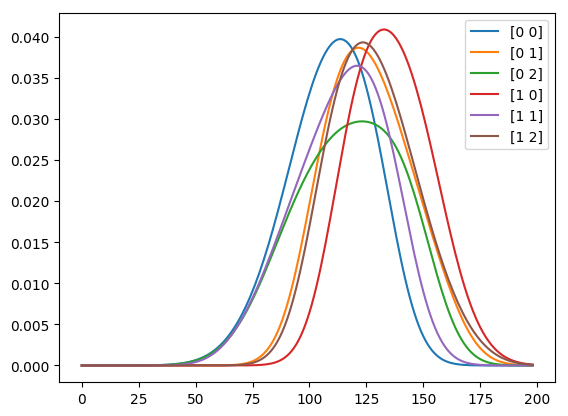
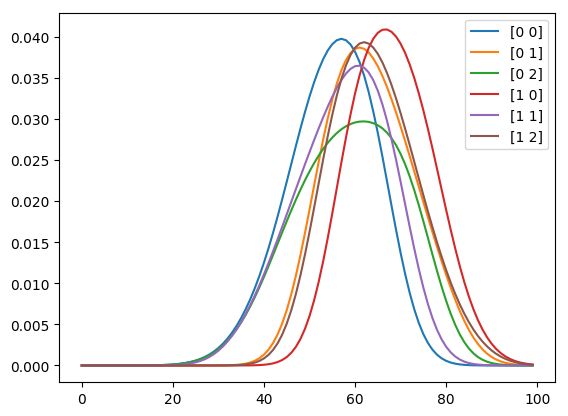
debugging

diff --git a/src/cfa/cfa.py b/src/cfa/cfa.py
@@ -99,9 +99,9 @@ class ContinuousFairnessAlgorithm():
     def __calculateFairScores(self, group_barycenters, total_bary):
         # calculate new scores from group barycenters
         groupFairScores = pd.DataFrame(columns=self.__groupNames)
-        for groupName in self.__rawDataAsHistograms:
-            ot_matrix = ot.emd(group_barycenters[groupName],
-                               self.__rawDataAsHistograms[groupName],
+        for groupName in self.__groupNames:
+            ot_matrix = ot.emd(self.__rawDataAsHistograms[groupName],
+                               group_barycenters[groupName],
                                self.__lossMatrix)
 #             plt.imshow(ot_matrix)
 #             plt.show()
@@ -115,24 +115,19 @@ class ContinuousFairnessAlgorithm():
             groupRawScores = self.__rawData[groupName][~np.isnan(self.__rawData[groupName])]
             fairScores = groupFairScores[groupName]
 
-            assert not fairScores.isnull().any()
-
             for index, fairScore in fairScores.iteritems():
-                # fairScore = fairScore.at[rawScore, groupName]
-            #             fairScore = fairScore.at[0]
                 range_left = self.__bin_edges[index]
                 range_right = self.__bin_edges[index + 1]
                 toBeReplaced = np.where((groupRawScores > range_left) & (groupRawScores <= range_right))[0]
                 groupRawScores[toBeReplaced] = fairScore
-            # self.__fairData[groupName] = groupRawScores
             self.__fairData = pd.concat([self.__fairData, groupRawScores], axis=1)
 
         if self.__plot:
             self.__fairData.plot.kde()
             plt.savefig(self.__plotPath + 'fairScoreDistributionPerGroup.png', dpi=100, bbox_inches='tight')
-#             bin_edges = np.linspace(groupFairScores.min().min(), groupFairScores.max().max(), int(self.__num_bins / 5))
-#             self.__getGroupHistograms(self.__fairData, self.__fairDataAsHistograms, bin_edges)
-#             self.__plott(self.__fairDataAsHistograms, 'fairScoresAsHistograms.png')
+            bin_edges = np.linspace(groupFairScores.min().min(), groupFairScores.max().max(), int(self.__num_bins))
+            self.__getGroupHistograms(self.__fairData, self.__fairDataAsHistograms, bin_edges)
+            self.__plott(self.__fairDataAsHistograms, 'fairScoresAsHistograms.png')
 
     def __plott(self, dataframe, filename):
         dataframe.plot(kind='line', use_index=False)
